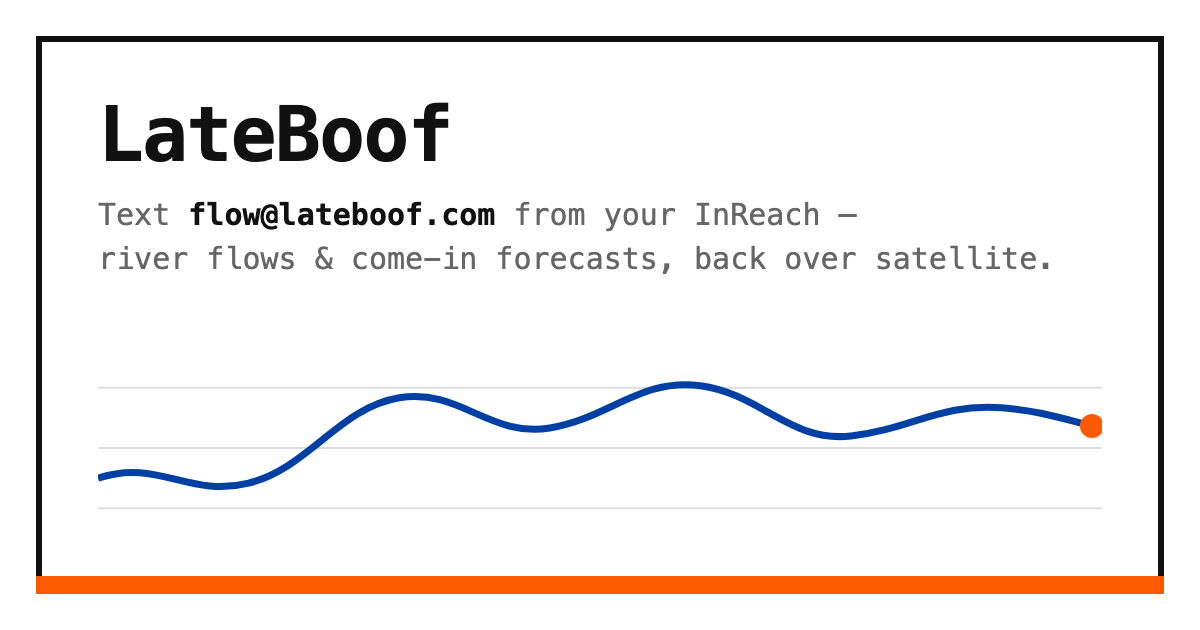
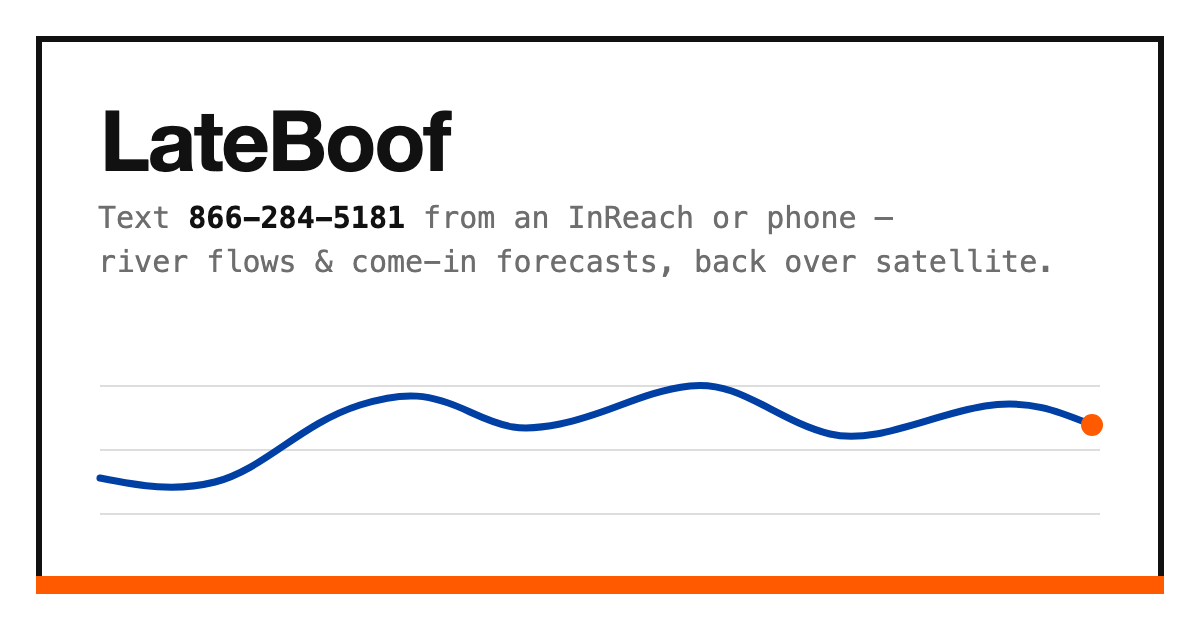
feat(web): the site speaks SMS only — flow@ retired from public copy
866-284-5181 is now the only channel the site advertises: header
tagline on all seven pages, help FAQ schema and body, index JSON-LD /
contact dialog / lead / footer, the 404 mock reply, and og.png (rebuilt
pixel-faithful with the number). flow.vcf drops its EMAIL line and the
QR was regenerated from it, decode-verified with jsQR. The email
channel still answers as an unadvertised backup (README says so;
privacy policy still discloses it), and the signup 503 fallback now
points at owen@ instead of the bot's own address.

Claude-Session: https://claude.ai/code/session_019gm6VZuDZPa3uuFyZM2k36

diff --git a/web/index.html b/web/index.html
@@ -6,7 +6,7 @@
   <title>LateBoof — River Flows by Text (Any Phone or Garmin InReach)</title>
   <meta name="description" content="Text a run name to 866-284-5181 from a Garmin InReach or any phone and get the river flow back. Free gauge lookup for whitewater kayakers.">
   <link rel="canonical" href="https://lateboof.com/">
-  <script type="application/ld+json">{"@context":"https://schema.org","@graph":[{"@type":"WebSite","@id":"https://lateboof.com/#website","url":"https://lateboof.com/","name":"LateBoof","description":"Free river gauge readings by text message, from a Garmin inReach or any phone"},{"@type":"Organization","@id":"https://lateboof.com/#org","name":"LateBoof","url":"https://lateboof.com/","email":"flow@lateboof.com","telephone":"+1-866-284-5181","logo":"https://lateboof.com/og.png","slogan":"Check the river from the put-in, not the parking lot","description":"LateBoof is a free river-gauge text service for whitewater paddlers. Text a run name from a Garmin inReach or any phone and one message comes back with the live gauge reading."},{"@type":"Service","@id":"https://lateboof.com/#service","name":"LateBoof river flow text line","provider":{"@id":"https://lateboof.com/#org"},"serviceType":"River gauge readings by SMS and satellite message","areaServed":["US","CA","NZ"],"offers":{"@type":"Offer","price":"0","priceCurrency":"USD"}}]}</script>
+  <script type="application/ld+json">{"@context":"https://schema.org","@graph":[{"@type":"WebSite","@id":"https://lateboof.com/#website","url":"https://lateboof.com/","name":"LateBoof","description":"Free river gauge readings by text message, from a Garmin inReach or any phone"},{"@type":"Organization","@id":"https://lateboof.com/#org","name":"LateBoof","url":"https://lateboof.com/","telephone":"+1-866-284-5181","logo":"https://lateboof.com/og.png","slogan":"Check the river from the put-in, not the parking lot","description":"LateBoof is a free river-gauge text service for whitewater paddlers. Text a run name from a Garmin inReach or any phone and one message comes back with the live gauge reading."},{"@type":"Service","@id":"https://lateboof.com/#service","name":"LateBoof river flow text line","provider":{"@id":"https://lateboof.com/#org"},"serviceType":"River gauge readings by SMS and satellite message","areaServed":["US","CA","NZ"],"offers":{"@type":"Offer","price":"0","priceCurrency":"USD"}}]}</script>
   <meta property="og:title" content="LateBoof — River Flows by Text">
   <meta property="og:description" content="Text a run name to 866-284-5181 from a Garmin InReach or any phone and get the river flow back. Free gauge lookup for whitewater kayakers — no cell signal needed.">
   <meta property="og:url" content="https://lateboof.com/">
@@ -102,7 +102,7 @@
 <body>
   <header class="site-header">
     <span class="brand">LateBoof</span>
-    <span class="header-sub">Text a run name to <strong>866-284-5181</strong> from an InReach or phone — or email <strong>flow@lateboof.com</strong></span>
+    <span class="header-sub">Text a run name to <strong>866-284-5181</strong> from an InReach or phone</span>
     <span class="header-actions">
       <a class="help-btn" href="/forecast">Oracle</a>
       <a class="help-btn" href="/help">HowTo</a>
@@ -120,11 +120,6 @@
         <a class="import-email-btn" href="sms:+18662845181">Text</a>
       </div>
       <div class="dialog-hint">From an InReach or any phone — no app, no sign-up</div>
-      <div class="dialog-email-row">
-        <div class="dialog-email">flow@lateboof.com</div>
-        <a class="import-email-btn" href="flow.vcf" download="LateBoof.vcf">Import</a>
-      </div>
-      <div class="dialog-hint">InReach email alternative — save it as a contact</div>
       <img class="contact-qr" src="contact-qr.svg" alt="QR code — scan to add contact" width="180" height="180">
       <div class="dialog-hint qr-hint">Scan with your phone camera to add the contact</div>
       <a class="save-contact-btn" href="flow.vcf" download="LateBoof.vcf">Save contact (.vcf)</a>
@@ -133,7 +128,7 @@
       <div class="dialog-divider"></div>
       <div class="dialog-usage">
         <div class="dialog-usage-title">Once it's saved</div>
-        <p class="dialog-usage-text">Text a gauge name — e.g. <em>mf salmon</em> or <em>grand canyon</em> — to this contact from an InReach or any phone (the email works from an InReach too). Flow data texts back automatically, no cell signal required.</p>
+        <p class="dialog-usage-text">Text a gauge name — e.g. <em>mf salmon</em> or <em>grand canyon</em> — to this contact from an InReach or any phone. Flow data texts back automatically, no cell signal required.</p>
       </div>
     </div>
   </dialog>
@@ -144,9 +139,9 @@
       <h1>River flows by text, from anywhere</h1>
       <p class="lead">
         LateBoof is a free river-gauge bot for whitewater paddlers. Text a run name to
-        <strong class="num">866-284-5181</strong> from a Garmin inReach or any phone — or send it
-        to <strong class="num">flow@lateboof.com</strong> from an inReach — and one message comes
-        back with the live reading. No app, no account, and on satellite, no cell signal at all.
+        <strong class="num">866-284-5181</strong> from a Garmin inReach or any phone, and one
+        message comes back with the live reading. No app, no account, and on satellite, no
+        cell signal at all.
       </p>
       <p>
         <strong>The idea:</strong> you should be able to check the river from the put-in,
@@ -213,7 +208,7 @@ USGS 13309220
   </div>
 
   <footer class="site-footer">
-    <span>Text a gauge name (e.g. <em>mf salmon</em>, <em>grand canyon</em>, <em>stikine</em>) to <strong>866-284-5181</strong> from an InReach or phone — or to flow@lateboof.com by InReach email. No app, no account.</span>
+    <span>Text a gauge name (e.g. <em>mf salmon</em>, <em>grand canyon</em>, <em>stikine</em>) to <strong>866-284-5181</strong> from an InReach or phone. No app, no account.</span>
     <span class="footer-links">
       <a class="footer-status" href="/forecast">The Oracle</a>
       <a class="footer-status" href="/help">Help</a>

diff --git a/web/help.html b/web/help.html
@@ -15,9 +15,9 @@
       {"@type":"ListItem","position":2,"name":"How it works"}
     ]},
     {"@type":"FAQPage","@id":"https://lateboof.com/help#faq","mainEntity":[
-    {"@type":"Question","name":"Can I check river levels without internet or cell service?","acceptedAnswer":{"@type":"Answer","text":"Yes. Text a river name to 866-284-5181 from a Garmin InReach or any phone (or email it to flow@lateboof.com from an InReach), and the current gauge reading comes back the same way — SMS to a phone, satellite to an InReach. The InReach path needs no cell signal or data at all."}},
+    {"@type":"Question","name":"Can I check river levels without internet or cell service?","acceptedAnswer":{"@type":"Answer","text":"Yes. Text a river name to 866-284-5181 from a Garmin InReach or any phone, and the current gauge reading comes back the same way — SMS to a phone, satellite to an InReach. The InReach path needs no cell signal or data at all."}},
     {"@type":"Question","name":"How do I get USGS river flows by text message?","acceptedAnswer":{"@type":"Answer","text":"Text a river name — like 'mf salmon' or 'the box' — and LateBoof replies once with the live reading from the official gauge (USGS, Water Survey of Canada, CDEC, or Dreamflows): discharge, stage, and the reading's own timestamp, in one satellite-safe message."}},
-    {"@type":"Question","name":"Does it work with a Garmin InReach?","acceptedAnswer":{"@type":"Answer","text":"Yes — that's what it was built for. Save 866-284-5181 (or flow@lateboof.com) as an InReach contact, text it a run name from anywhere, and the flow comes back over the Iridium satellite network, typically within a few minutes."}},
+    {"@type":"Question","name":"Does it work with a Garmin InReach?","acceptedAnswer":{"@type":"Answer","text":"Yes — that's what it was built for. Save 866-284-5181 as an InReach contact, text it a run name from anywhere, and the flow comes back over the Iridium satellite network, typically within a few minutes."}},
     {"@type":"Question","name":"Which rivers are covered?","acceptedAnswer":{"@type":"Answer","text":"45 hand-picked whitewater runs across the US, Canada, and New Zealand — from roadside classics like the Middle Fork Salmon to expeditions like the Grand Canyon of the Stikine. Every gauge is the one paddlers actually quote for that run. The full list is at lateboof.com."}},
     {"@type":"Question","name":"Does it work from a regular phone or iPhone satellite messaging?","acceptedAnswer":{"@type":"Answer","text":"Yes. Text a river name to +1 866-284-5181 from a Garmin InReach or any US or Canadian phone — including iPhone satellite messaging where your carrier supports SMS over satellite — and one reply comes back with the live reading. No app, no account; standard message rates apply. Reply STOP to any message to stop."}},
     {"@type":"Question","name":"How much does it cost?","acceptedAnswer":{"@type":"Answer","text":"LateBoof is free. Standard message and data rates from your carrier or satellite plan apply to the messages themselves."}}
@@ -66,7 +66,7 @@
   <h1 style="position:absolute;width:1px;height:1px;overflow:hidden;clip:rect(0 0 0 0);clip-path:inset(50%);white-space:nowrap">River flows by text — from a Garmin InReach or any phone</h1>
   <header class="site-header">
     <a class="brand" href="/" style="text-decoration:none">LateBoof</a>
-    <span class="header-sub">Text a run name to <strong>866-284-5181</strong> from an InReach or phone — or email <strong>flow@lateboof.com</strong></span>
+    <span class="header-sub">Text a run name to <strong>866-284-5181</strong> from an InReach or phone</span>
     <span class="header-actions">
       <a class="help-btn" href="/forecast">Oracle</a>
       <a class="help-btn" href="/">GaugeDirectory</a>
@@ -83,7 +83,7 @@
       turns that device into a river-flow lookup: send a run name, get the current
       flow back over satellite in seconds — no cell signal, and nothing to install.
       Text a run name to <strong>866-284-5181</strong> from the InReach or from any
-      phone; <strong>flow@lateboof.com</strong> works as an InReach email contact too.
+      phone.
     </p>
 
     <h2>Set it up once</h2>
@@ -95,12 +95,6 @@
         InReach, add it in the Garmin Explore app or MapShare so it's quick to reach).
       </li>
       <li>
-        <strong>InReach email alternative:</strong> <strong>flow@lateboof.com</strong>
-        also answers from an InReach (the QR or vCard under
-        <a href="/#contact"><strong>+ CONTACT</strong></a> carries both the number and
-        the address).
-      </li>
-      <li>
         Send yourself a test message now — e.g. <code>mf salmon</code> — while
         you're still in cell range, so you know it works before you need it out
         on the river.
@@ -109,8 +103,7 @@
 
     <h2>Use it on the river</h2>
     <p>
-      Text any run name to <strong>866-284-5181</strong> from an InReach or phone (or to
-      <strong>flow@lateboof.com</strong> by InReach email) — e.g.
+      Text any run name to <strong>866-284-5181</strong> from an InReach or phone — e.g.
       <code>mf salmon</code>, <code>grand canyon</code>, <code>stikine</code>. Case
       doesn't matter, but spelling does: it matches against a curated list of run
       names, or a raw USGS/WSC station ID. See the exact names to use under

diff --git a/web/404.html b/web/404.html
@@ -232,7 +232,7 @@
 <body>
   <header class="site-header">
     <span class="brand"><a href="/" style="color:inherit;text-decoration:none">LateBoof</a></span>
-    <span class="header-sub">Text a run name to <strong>866-284-5181</strong> from an InReach or phone — or email <strong>flow@lateboof.com</strong></span>
+    <span class="header-sub">Text a run name to <strong>866-284-5181</strong> from an InReach or phone</span>
     <span class="header-actions">
       <a class="help-btn" href="/forecast">Oracle</a>
       <a class="help-btn" href="/help">HowTo</a>
@@ -289,7 +289,7 @@
     </div>
 
     <div class="sat-reply">
-      <span class="from">flow@lateboof.com · via satellite</span>
+      <span class="from">866-284-5181 · via satellite</span>
       <span id="sat-msg">not found — check spelling or paddle back: <a href="/">live gauges</a>, <a href="/forecast">the oracle</a>, <a href="/help">how it works</a></span>
       <div class="chars" id="char-count"></div>
     </div>

diff --git a/web/sms.html b/web/sms.html
@@ -53,7 +53,7 @@
   <h1 style="position:absolute;width:1px;height:1px;overflow:hidden;clip:rect(0 0 0 0);clip-path:inset(50%);white-space:nowrap">LateBoof SMS program — opt-in and terms</h1>
   <header class="site-header">
     <a class="brand" href="/" style="text-decoration:none">LateBoof</a>
-    <span class="header-sub">Text a run name to <strong>866-284-5181</strong> from an InReach or phone — or email <strong>flow@lateboof.com</strong></span>
+    <span class="header-sub">Text a run name to <strong>866-284-5181</strong> from an InReach or phone</span>
     <span class="header-actions">
       <a class="help-btn" href="/forecast">Oracle</a>
       <a class="help-btn" href="/">GaugeDirectory</a>

diff --git a/web/privacy.html b/web/privacy.html
@@ -32,7 +32,7 @@
   <h1 style="position:absolute;width:1px;height:1px;overflow:hidden;clip:rect(0 0 0 0);clip-path:inset(50%);white-space:nowrap">LateBoof privacy policy and terms of use</h1>
   <header class="site-header">
     <a class="brand" href="/" style="text-decoration:none">LateBoof</a>
-    <span class="header-sub">Text a run name to <strong>866-284-5181</strong> from an InReach or phone — or email <strong>flow@lateboof.com</strong></span>
+    <span class="header-sub">Text a run name to <strong>866-284-5181</strong> from an InReach or phone</span>
     <span class="header-actions">
       <a class="help-btn" href="/forecast">Oracle</a>
       <a class="help-btn" href="/">GaugeDirectory</a>

diff --git a/web/support.html b/web/support.html
@@ -106,7 +106,7 @@
 <body>
   <header class="site-header">
     <a class="brand" href="/" style="text-decoration:none">LateBoof</a>
-    <span class="header-sub">Text a run name to <strong>866-284-5181</strong> from an InReach or phone — or email <strong>flow@lateboof.com</strong></span>
+    <span class="header-sub">Text a run name to <strong>866-284-5181</strong> from an InReach or phone</span>
     <span class="header-actions">
       <a class="help-btn" href="/forecast">Oracle</a>
       <a class="help-btn" href="/">GaugeDirectory</a>

diff --git a/web/status.html b/web/status.html
@@ -19,7 +19,7 @@
 <body>
   <header class="site-header">
     <a class="brand" href="/" style="text-decoration:none">LateBoof</a>
-    <span class="header-sub">Text a run name to <strong>866-284-5181</strong> from an InReach or phone — or email <strong>flow@lateboof.com</strong></span>
+    <span class="header-sub">Text a run name to <strong>866-284-5181</strong> from an InReach or phone</span>
     <span class="header-actions">
       <a class="help-btn" href="/forecast">Oracle</a>
       <a class="help-btn" href="/help">HowTo</a>

diff --git a/web/functions/api/subscribe.ts b/web/functions/api/subscribe.ts
@@ -54,7 +54,7 @@ export const onRequestPost = async (ctx: { request: Request; env: Env }): Promis
   }
 
   if (!env.BEEHIIV_API_KEY) {
-    return reply(503, false, 'Signups are almost live — email flow@lateboof.com and we will add you by hand.', wantsJson);
+    return reply(503, false, 'Signups are almost live — email owen@lateboof.com and we will add you by hand.', wantsJson);
   }
 
   const publication = env.BEEHIIV_PUBLICATION_ID ?? DEFAULT_PUBLICATION;

diff --git a/README.md b/README.md
@@ -1,9 +1,9 @@
 # Flow
 
 A river-gauge bot for whitewater paddlers. Text a run name to **866-284-5181**
-from a Garmin inReach or any phone — or email `flow@lateboof.com` from an
-inReach — and the live gauge reading comes back in one message. Free, no app,
-no account.
+from a Garmin inReach or any phone and the live gauge reading comes back in one
+message. Free, no app, no account. (The email channel, `flow@lateboof.com`,
+still answers but is no longer advertised — SMS is the primary channel.)
 
 See [DESIGN.md](./DESIGN.md) for the original design (with dated addenda),
 [RUNS.md](./RUNS.md) for the run roster, [docs/SELF-CHECKING.md](./docs/SELF-CHECKING.md)
